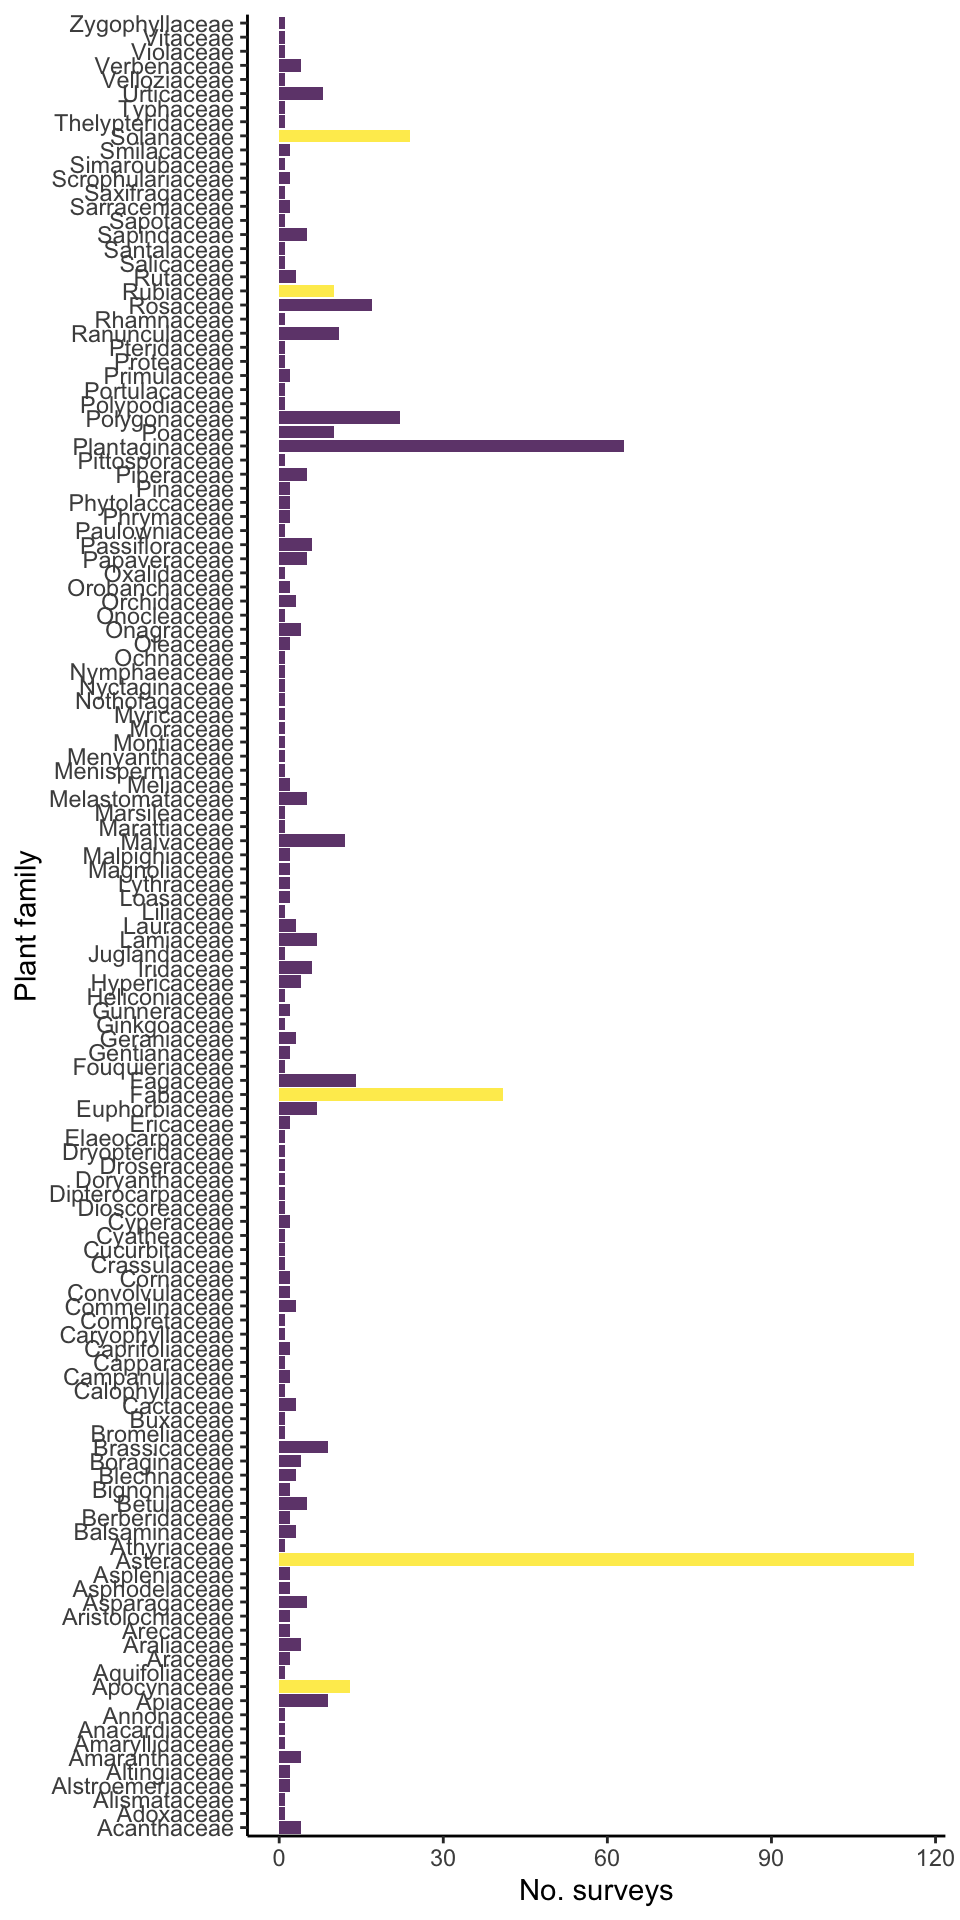
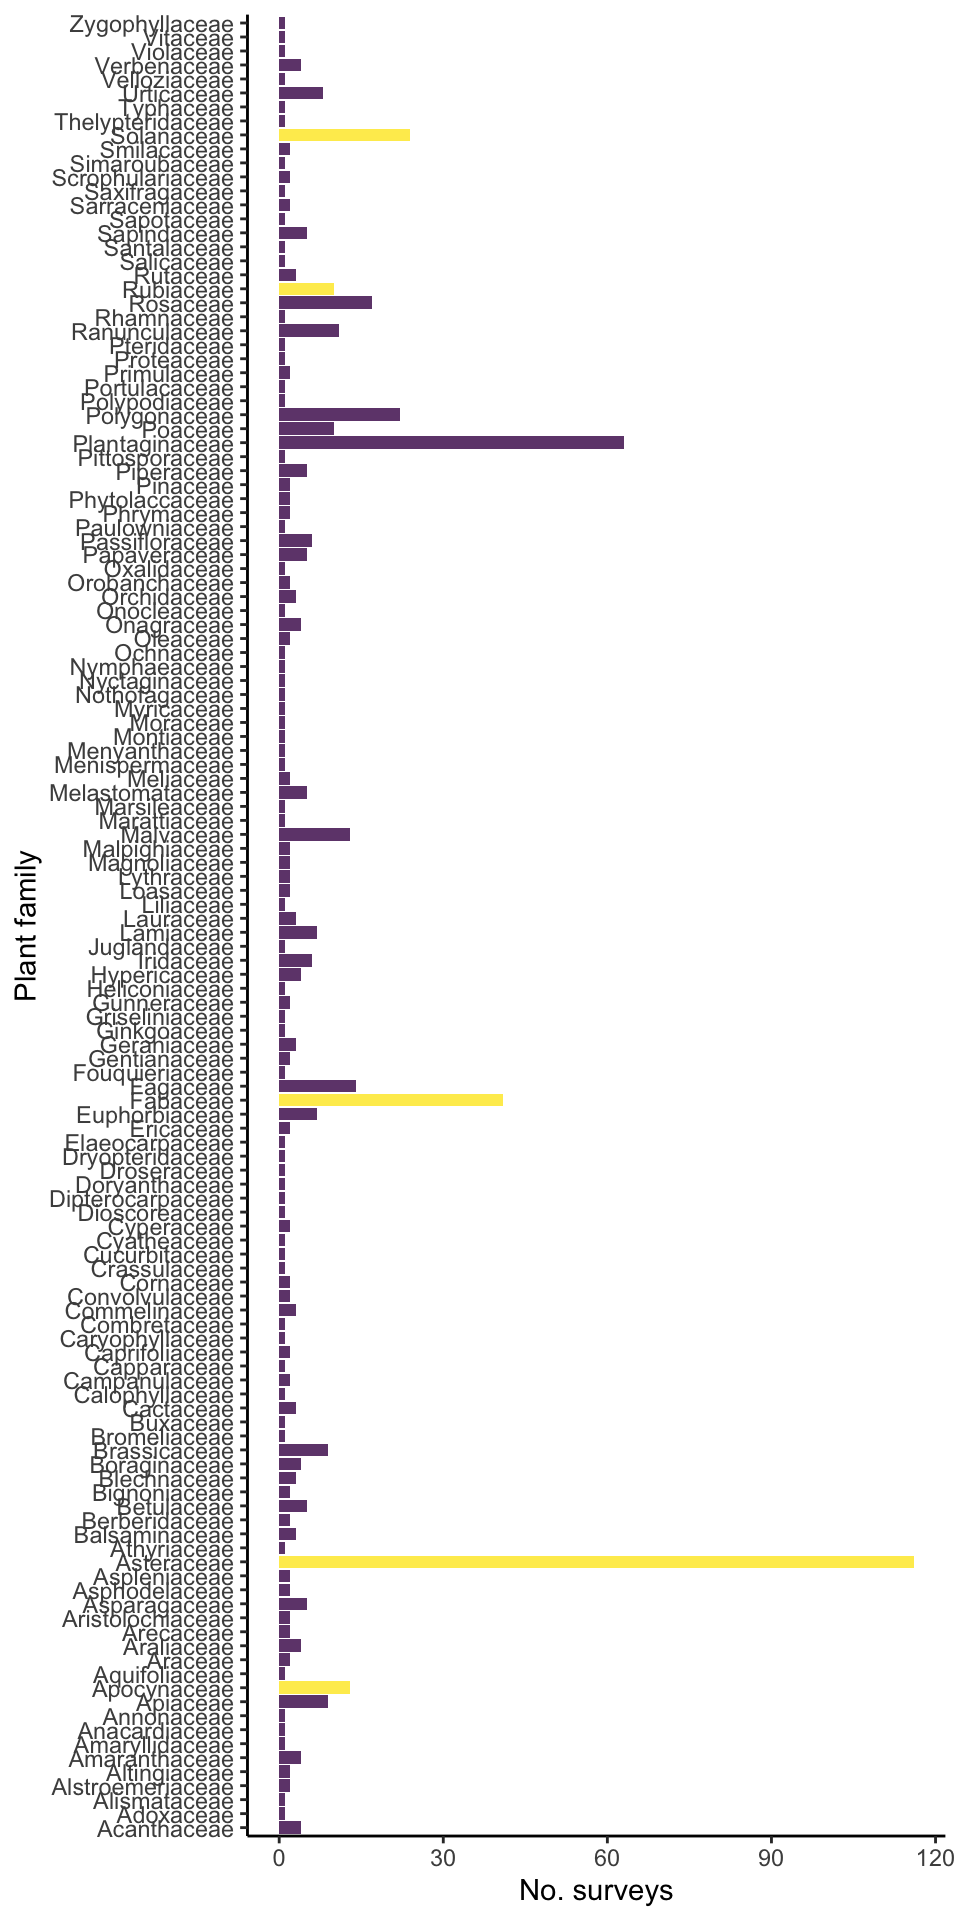
new survs

Changed region(s): [[0.0625, 0.0312, 0.625, 0.9688], [0.2812, 0.75, 0.3438, 0.8438], [0.2812, 0.125, 0.3438, 0.1875]]

diff --git a/status.html b/status.html
@@ -230,7 +230,7 @@ $(document).ready(function () {
 </div>
 
 
-<p>The Herbivory Variability Network has completed <strong>607 surveys on 420 plant species from 129 plant families</strong>, which is about 28% of all extant vascular plant families. These figures and tables update as new data are entered into our database, so check back often!</p>
+<p>The Herbivory Variability Network has completed <strong>609 surveys on 422 plant species from 130 plant families</strong>, which is about 28% of all extant vascular plant families. These figures and tables update as new data are entered into our database, so check back often!</p>
 <p>We have a three-scaled sampling approach:</p>
 <ol style="list-style-type: decimal">
 <li>Sampling one plant species from as many plant families as possible</li>
@@ -1443,148 +1443,158 @@ Number of completed surveys per plant family. Our five focal families are in yel
 <td align="left">1</td>
 </tr>
 <tr class="even">
+<td align="left">Griseliniaceae</td>
+<td align="left"><em>Griselinea littoralis</em></td>
+<td align="left">1</td>
+</tr>
+<tr class="odd">
 <td align="left">Gunneraceae</td>
 <td align="left"><em>Gunnera tinctoria</em></td>
 <td align="left">2</td>
 </tr>
-<tr class="odd">
+<tr class="even">
 <td align="left">Heliconiaceae</td>
 <td align="left"><em>Heliconia schiedeana</em></td>
 <td align="left">1</td>
 </tr>
-<tr class="even">
+<tr class="odd">
 <td align="left">Hypericaceae</td>
 <td align="left"><em>Hypericum maculatum</em></td>
 <td align="left">4</td>
 </tr>
-<tr class="odd">
+<tr class="even">
 <td align="left">Iridaceae</td>
 <td align="left"><em>Iris atrofusca</em></td>
 <td align="left">1</td>
 </tr>
-<tr class="even">
+<tr class="odd">
 <td align="left">Iridaceae</td>
 <td align="left"><em>Iris atropurpurea</em></td>
 <td align="left">2</td>
 </tr>
-<tr class="odd">
+<tr class="even">
 <td align="left">Iridaceae</td>
 <td align="left"><em>Iris haynei</em></td>
 <td align="left">1</td>
 </tr>
-<tr class="even">
+<tr class="odd">
 <td align="left">Iridaceae</td>
 <td align="left"><em>Iris petrana</em></td>
 <td align="left">1</td>
 </tr>
-<tr class="odd">
+<tr class="even">
 <td align="left">Iridaceae</td>
 <td align="left"><em>Sisyrinchium tinctorium</em></td>
 <td align="left">1</td>
 </tr>
-<tr class="even">
+<tr class="odd">
 <td align="left">Juglandaceae</td>
 <td align="left"><em>Juglans nigra</em></td>
 <td align="left">1</td>
 </tr>
-<tr class="odd">
+<tr class="even">
 <td align="left">Lamiaceae</td>
 <td align="left"><em>Lycopus uniflorus</em></td>
 <td align="left">1</td>
 </tr>
-<tr class="even">
+<tr class="odd">
 <td align="left">Lamiaceae</td>
 <td align="left"><em>Monarda fistulosa</em></td>
 <td align="left">3</td>
 </tr>
-<tr class="odd">
+<tr class="even">
 <td align="left">Lamiaceae</td>
 <td align="left"><em>Monarda punctata</em></td>
 <td align="left">1</td>
 </tr>
-<tr class="even">
+<tr class="odd">
 <td align="left">Lamiaceae</td>
 <td align="left"><em>Salvia pratensis</em></td>
 <td align="left">1</td>
 </tr>
-<tr class="odd">
+<tr class="even">
 <td align="left">Lamiaceae</td>
 <td align="left"><em>Thymus vulgaris</em></td>
 <td align="left">1</td>
 </tr>
-<tr class="even">
+<tr class="odd">
 <td align="left">Lauraceae</td>
 <td align="left"><em>Nectandra lineata</em></td>
 <td align="left">1</td>
 </tr>
-<tr class="odd">
+<tr class="even">
 <td align="left">Lauraceae</td>
 <td align="left"><em>Sassafras albidum</em></td>
 <td align="left">2</td>
 </tr>
-<tr class="even">
+<tr class="odd">
 <td align="left">Liliaceae</td>
 <td align="left"><em>Clintonia borealis</em></td>
 <td align="left">1</td>
 </tr>
-<tr class="odd">
+<tr class="even">
 <td align="left">Loasaceae</td>
 <td align="left"><em>Loasa insons</em></td>
 <td align="left">1</td>
 </tr>
-<tr class="even">
+<tr class="odd">
 <td align="left">Loasaceae</td>
 <td align="left"><em>Mentzelia laevicaulis</em></td>
 <td align="left">1</td>
 </tr>
-<tr class="odd">
+<tr class="even">
 <td align="left">Lythraceae</td>
 <td align="left"><em>Diplusodon orbicularis</em></td>
 <td align="left">1</td>
 </tr>
-<tr class="even">
+<tr class="odd">
 <td align="left">Lythraceae</td>
 <td align="left"><em>Lythrum salicaria</em></td>
 <td align="left">1</td>
 </tr>
-<tr class="odd">
+<tr class="even">
 <td align="left">Magnoliaceae</td>
 <td align="left"><em>Liriodendron tulipifera</em></td>
 <td align="left">2</td>
 </tr>
-<tr class="even">
+<tr class="odd">
 <td align="left">Malpighiaceae</td>
 <td align="left"><em>Byrsonima intermedia</em></td>
 <td align="left">1</td>
 </tr>
-<tr class="odd">
+<tr class="even">
 <td align="left">Malpighiaceae</td>
 <td align="left"><em>Byrsonima verbascifolia</em></td>
 <td align="left">1</td>
 </tr>
-<tr class="even">
+<tr class="odd">
 <td align="left">Malvaceae</td>
 <td align="left"><em>Abutilon theophrasti</em></td>
 <td align="left">1</td>
 </tr>
-<tr class="odd">
+<tr class="even">
 <td align="left">Malvaceae</td>
 <td align="left"><em>Alcea rosea</em></td>
 <td align="left">1</td>
 </tr>
-<tr class="even">
+<tr class="odd">
 <td align="left">Malvaceae</td>
 <td align="left"><em>Brachychiton populneus</em></td>
 <td align="left">1</td>
 </tr>
-<tr class="odd">
+<tr class="even">
 <td align="left">Malvaceae</td>
 <td align="left"><em>Gossypium hirsutum</em></td>
 <td align="left">3</td>
 </tr>
-<tr class="even">
+<tr class="odd">
 <td align="left">Malvaceae</td>
 <td align="left"><em>Melhania ovata</em></td>
+<td align="left">1</td>
+</tr>
+<tr class="even">
+<td align="left">Malvaceae</td>
+<td align="left"><em>Plagianthus regius</em></td>
 <td align="left">1</td>
 </tr>
 <tr class="odd">
